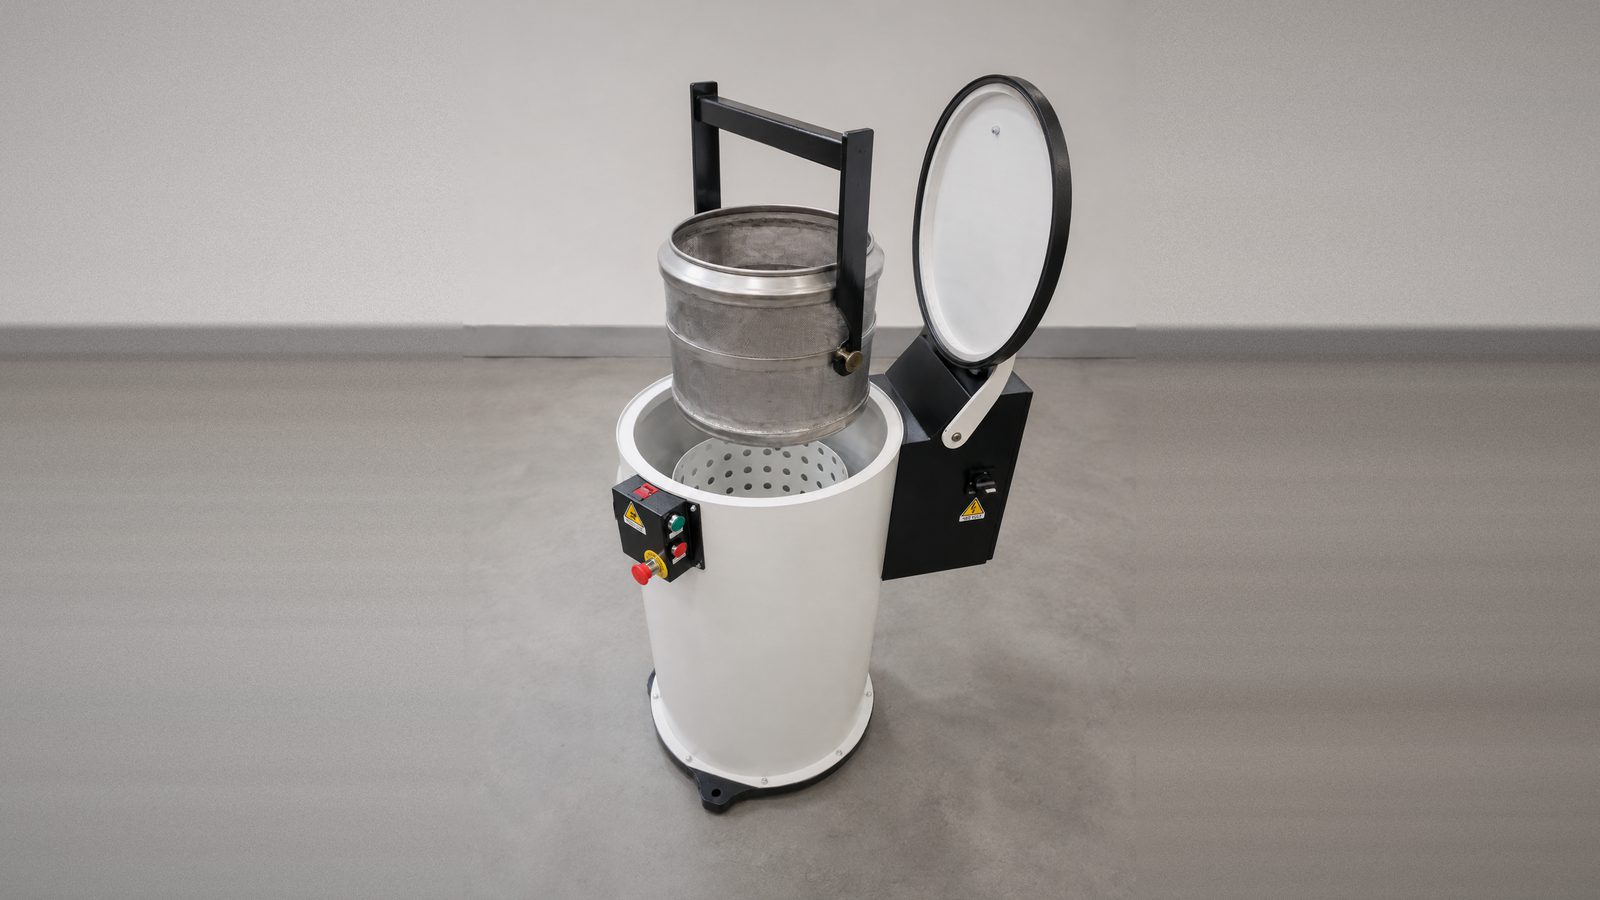
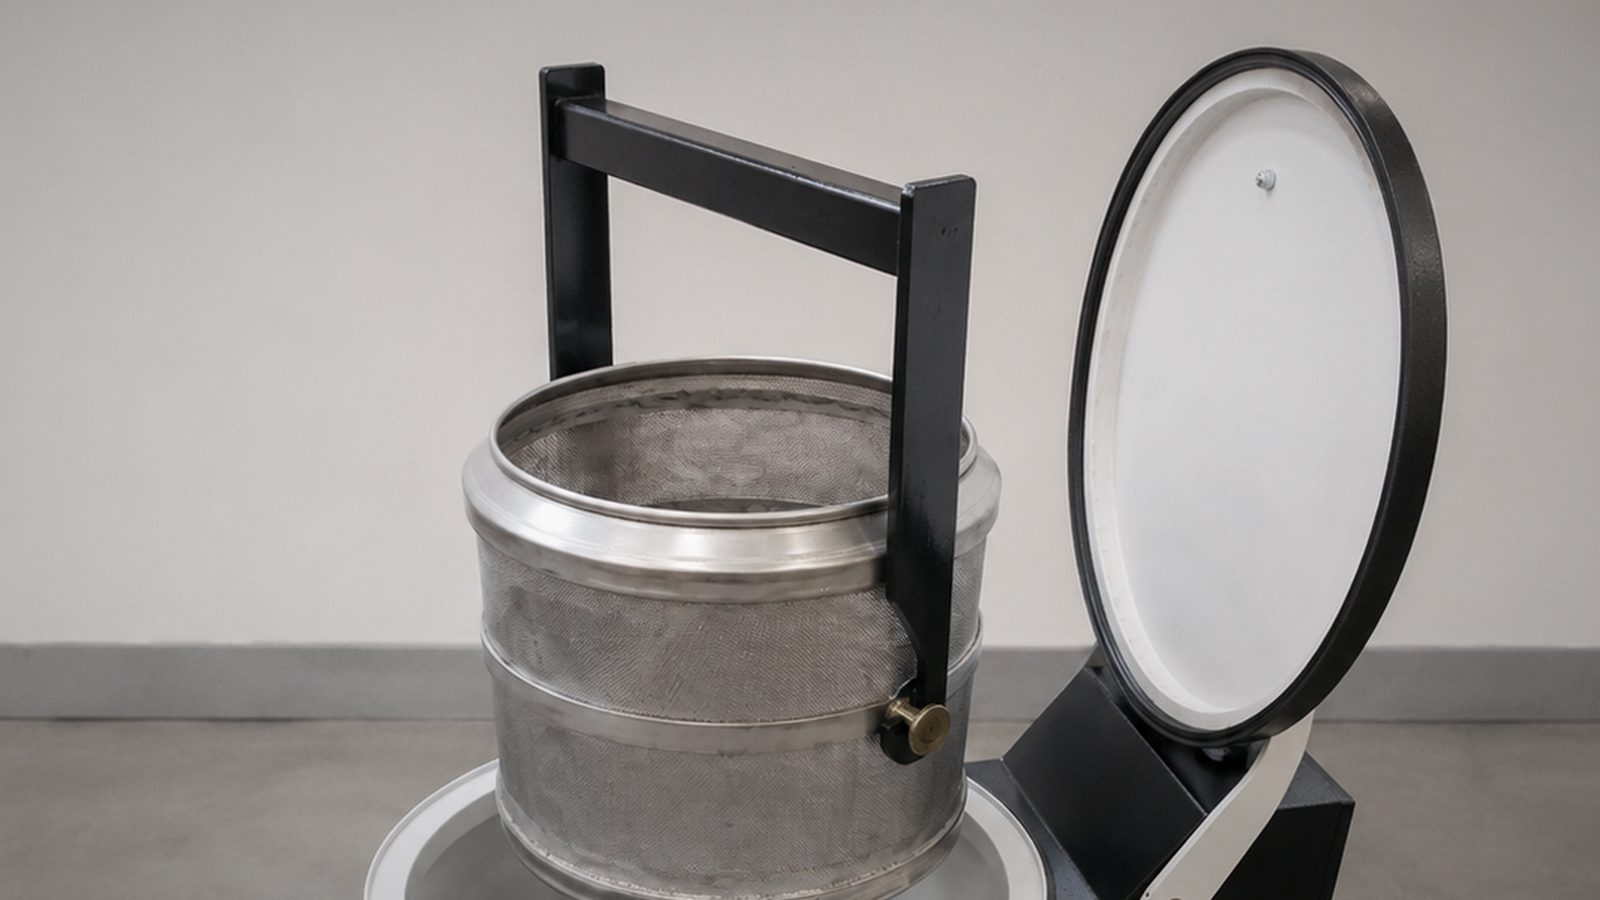
Le FCV diventano ritagli: niente piu' fondo inventato
L'alone attorno alla macchina non si toglieva ritoccando: allargare quegli
scatti al 16:9 vuol dire inventare il 58% del fotogramma partendo da un margine
di fondo largo 84 px, perche' la macchina occupa l'85-90% dell'altezza e quasi
tutta la larghezza. Copiare la grana e sfumare l'attacco non bastava — quello
che manca ai lati non e' il rumore, e' la struttura: macchie del pavimento,
variazione di luce. Resta una fascia liscia, e si vede.

Quindi il fondo aggiunto sparisce del tutto. Le tre immagini sono ritagli presi
dentro lo scatto, inquadrati in alto sulla macchina: coperchio, maniglie e
quadro, e nel terzo il cesto estratto col coperchio aperto. La macchina esce dal
fotogramma come in un primo piano, che e' una scelta e non un rattoppo, e tutto
quello che si vede e' fotografia vera.

Rifatte anche la copertina — il quadrato piu' grande che sta dentro allo scatto
— e la scheda "centrifugazione" di applicazioni.

diff --git a/prodotti/centrifughe-asciugatrici-serie-fcv.html b/prodotti/centrifughe-asciugatrici-serie-fcv.html
@@ -8,7 +8,7 @@
 <meta name="description" content="Cesto verticale compatto, vibrazioni ammortizzate">
 <link rel="icon" href="../assets/img/favicon-32.png" sizes="32x32">
 <link rel="apple-touch-icon" href="../assets/img/favicon-180.png">
-<link rel="stylesheet" href="../assets/site.css?v=20260828p">
+<link rel="stylesheet" href="../assets/site.css?v=20260828q">
 </head>
 <body>
 <nav class="menu">
@@ -64,7 +64,7 @@
        immagini basta agire su queste righe. -->
   <div class="reveal carosello" data-carosello="2000">
     <img class="attiva" alt="centrifuga disoleatrice Fase serie FCV in blu, coperchio con maniglie e quadro a bordo macchina" src="../assets/img/centrifughe/fcv-01.jpg">
-    <img loading="lazy" alt="centrifuga disoleatrice Fase serie FCV in bianco, vista di tre quarti" src="../assets/img/centrifughe/fcv-02.jpg">
+    <img loading="lazy" alt="coperchio con maniglie e quadro di una centrifuga disoleatrice Fase serie FCV in bianco" src="../assets/img/centrifughe/fcv-02.jpg">
     <img loading="lazy" alt="centrifuga disoleatrice Fase serie FCV col coperchio aperto e il cesto estratto" src="../assets/img/centrifughe/fcv-03.jpg">
   </div>
 </section>
@@ -170,7 +170,7 @@
     </div>
   </div>
 </footer>
-<script src="../assets/i18n.js?v=20260828p"></script>
-<script src="../assets/site.js?v=20260828p"></script>
+<script src="../assets/i18n.js?v=20260828q"></script>
+<script src="../assets/site.js?v=20260828q"></script>
 </body>
 </html>

diff --git a/assets/i18n.js b/assets/i18n.js
@@ -503,7 +503,7 @@ var EN = {
 "fotografia del nastro trasportatore non ancora disponibile":"photograph of the belt conveyor not yet available",
 "fotografia delle centrifughe non ancora disponibile":"photograph of the centrifuges not yet available",
 "centrifuga disoleatrice Fase serie FCV in blu, coperchio con maniglie e quadro a bordo macchina":"Fase FCV series oil-removal centrifuge in blue, lid with handles and on-board control panel",
-"centrifuga disoleatrice Fase serie FCV in bianco, vista di tre quarti":"Fase FCV series oil-removal centrifuge in white, seen three-quarters on",
+"coperchio con maniglie e quadro di una centrifuga disoleatrice Fase serie FCV in bianco":"lid with handles and control panel of a Fase FCV series oil-removal centrifuge in white",
 "centrifuga disoleatrice Fase serie FCV col coperchio aperto e il cesto estratto":"Fase FCV series oil-removal centrifuge with the lid open and the basket lifted out",
 "centrifuga disoleatrice Fase serie FD, fusto bianco e motore sul basamento che porta il marchio":"Fase FD series oil-removal centrifuge, white drum and motor on the base carrying the brand mark",
 "timbro \u00abpatented\u00bb: l\u2019espulsione del trituratore TR1 \u00e8 coperta da brevetto":"\u201cpatented\u201d stamp: the ejection system of the TR1 shredder is covered by a patent",

diff --git a/news/test-gratuiti-di-triturazione.html b/news/test-gratuiti-di-triturazione.html
@@ -8,7 +8,7 @@
 <meta name="description" content="I trituratori frantumano il truciolo e semplificano centrifugazione e stoccaggio. Mettiamo a disposizione una prova gratuita sullo sfrido del cliente, su appuntamento.">
 <link rel="icon" href="../assets/img/favicon-32.png" sizes="32x32">
 <link rel="apple-touch-icon" href="../assets/img/favicon-180.png">
-<link rel="stylesheet" href="../assets/site.css?v=20260828p">
+<link rel="stylesheet" href="../assets/site.css?v=20260828q">
 </head>
 <body>
 <nav class="menu">
@@ -149,7 +149,7 @@
     </div>
   </div>
 </footer>
-<script src="../assets/i18n.js?v=20260828p"></script>
-<script src="../assets/site.js?v=20260828p"></script>
+<script src="../assets/i18n.js?v=20260828q"></script>
+<script src="../assets/site.js?v=20260828q"></script>
 </body>
 </html>

diff --git a/applicazioni.html b/applicazioni.html
@@ -8,7 +8,7 @@
 <meta name="description" content="Il truciolo esce dalla macchina utensile carico di lubrorefrigerante, e quanto ne trattiene dipende dalla forma. L’impianto si sceglie dal materiale, non dal listino.">
 <link rel="icon" href="assets/img/favicon-32.png" sizes="32x32">
 <link rel="apple-touch-icon" href="assets/img/favicon-180.png">
-<link rel="stylesheet" href="assets/site.css?v=20260828p">
+<link rel="stylesheet" href="assets/site.css?v=20260828q">
 </head>
 <body>
 <nav class="menu">
@@ -143,7 +143,7 @@
     </div>
   </div>
 </footer>
-<script src="assets/i18n.js?v=20260828p"></script>
-<script src="assets/site.js?v=20260828p"></script>
+<script src="assets/i18n.js?v=20260828q"></script>
+<script src="assets/site.js?v=20260828q"></script>
 </body>
 </html>

diff --git a/prodotti/kombi.html b/prodotti/kombi.html
@@ -8,7 +8,7 @@
 <meta name="description" content="Impianto automatico di disoleatura del truciolo corto, su base pallettizzata. Fino a 400 kg/h, trituratore e vasca dragante a richiesta.">
 <link rel="icon" href="../assets/img/favicon-32.png" sizes="32x32">
 <link rel="apple-touch-icon" href="../assets/img/favicon-180.png">
-<link rel="stylesheet" href="../assets/site.css?v=20260828p">
+<link rel="stylesheet" href="../assets/site.css?v=20260828q">
 </head>
 <body>
 <nav class="menu">
@@ -176,7 +176,7 @@
     </div>
   </div>
 </footer>
-<script src="../assets/i18n.js?v=20260828p"></script>
-<script src="../assets/site.js?v=20260828p"></script>
+<script src="../assets/i18n.js?v=20260828q"></script>
+<script src="../assets/site.js?v=20260828q"></script>
 </body>
 </html>

diff --git a/settori.html b/settori.html
@@ -8,7 +8,7 @@
 <meta name="description" content="Cambia il pezzo, cambia il fluido, cambia lo spazio. Non cambia dove interveniamo: a valle della lavorazione, prima che lo sfrido diventi un costo.">
 <link rel="icon" href="assets/img/favicon-32.png" sizes="32x32">
 <link rel="apple-touch-icon" href="assets/img/favicon-180.png">
-<link rel="stylesheet" href="assets/site.css?v=20260828p">
+<link rel="stylesheet" href="assets/site.css?v=20260828q">
 </head>
 <body>
 <nav class="menu">
@@ -129,7 +129,7 @@
     </div>
   </div>
 </footer>
-<script src="assets/i18n.js?v=20260828p"></script>
-<script src="assets/site.js?v=20260828p"></script>
+<script src="assets/i18n.js?v=20260828q"></script>
+<script src="assets/site.js?v=20260828q"></script>
 </body>
 </html>

diff --git a/news/mecspe-2026.html b/news/mecspe-2026.html
@@ -8,7 +8,7 @@
 <meta name="description" content="Saremo a MECSPE, la fiera dedicata alle innovazioni per l’industria manifatturiera. Padiglione 14, stand F32.">
 <link rel="icon" href="../assets/img/favicon-32.png" sizes="32x32">
 <link rel="apple-touch-icon" href="../assets/img/favicon-180.png">
-<link rel="stylesheet" href="../assets/site.css?v=20260828p">
+<link rel="stylesheet" href="../assets/site.css?v=20260828q">
 </head>
 <body>
 <nav class="menu">
@@ -149,7 +149,7 @@
     </div>
   </div>
 </footer>
-<script src="../assets/i18n.js?v=20260828p"></script>
-<script src="../assets/site.js?v=20260828p"></script>
+<script src="../assets/i18n.js?v=20260828q"></script>
+<script src="../assets/site.js?v=20260828q"></script>
 </body>
 </html>

diff --git a/index.html b/index.html
@@ -8,7 +8,7 @@
 <meta name="description" content="Fase progetta e costruisce centrifughe, impianti di trattamento e trituratori per lo sfrido metallico. Umidità residua sotto il 2%.">
 <link rel="icon" href="assets/img/favicon-32.png" sizes="32x32">
 <link rel="apple-touch-icon" href="assets/img/favicon-180.png">
-<link rel="stylesheet" href="assets/site.css?v=20260828p">
+<link rel="stylesheet" href="assets/site.css?v=20260828q">
 </head>
 <body>
 <nav class="menu">
@@ -341,7 +341,7 @@
     </div>
   </div>
 </footer>
-<script src="assets/i18n.js?v=20260828p"></script>
-<script src="assets/site.js?v=20260828p"></script>
+<script src="assets/i18n.js?v=20260828q"></script>
+<script src="assets/site.js?v=20260828q"></script>
 </body>
 </html>

diff --git a/news/fornitore-offresi-2025.html b/news/fornitore-offresi-2025.html
@@ -8,7 +8,7 @@
 <meta name="description" content="Salone internazionale della subfornitura meccanica, a Erba dal 13 al 15 febbraio. Padiglione B, stand 281.">
 <link rel="icon" href="../assets/img/favicon-32.png" sizes="32x32">
 <link rel="apple-touch-icon" href="../assets/img/favicon-180.png">
-<link rel="stylesheet" href="../assets/site.css?v=20260828p">
+<link rel="stylesheet" href="../assets/site.css?v=20260828q">
 </head>
 <body>
 <nav class="menu">
@@ -149,7 +149,7 @@
     </div>
   </div>
 </footer>
-<script src="../assets/i18n.js?v=20260828p"></script>
-<script src="../assets/site.js?v=20260828p"></script>
+<script src="../assets/i18n.js?v=20260828q"></script>
+<script src="../assets/site.js?v=20260828q"></script>
 </body>
 </html>

diff --git a/news/mecspe-2021.html b/news/mecspe-2021.html
@@ -8,7 +8,7 @@
 <meta name="description" content="Presenti con i sistemi di centrifugazione e triturazione del truciolo metallico. Padiglione 22, stand C86.">
 <link rel="icon" href="../assets/img/favicon-32.png" sizes="32x32">
 <link rel="apple-touch-icon" href="../assets/img/favicon-180.png">
-<link rel="stylesheet" href="../assets/site.css?v=20260828p">
+<link rel="stylesheet" href="../assets/site.css?v=20260828q">
 </head>
 <body>
 <nav class="menu">
@@ -149,7 +149,7 @@
     </div>
   </div>
 </footer>
-<script src="../assets/i18n.js?v=20260828p"></script>
-<script src="../assets/site.js?v=20260828p"></script>
+<script src="../assets/i18n.js?v=20260828q"></script>
+<script src="../assets/site.js?v=20260828q"></script>
 </body>
 </html>

diff --git a/news/mecspe-2024.html b/news/mecspe-2024.html
@@ -8,7 +8,7 @@
 <meta name="description" content="In mostra i sistemi di centrifugazione e triturazione del truciolo metallico. Padiglione 19, stand A10.">
 <link rel="icon" href="../assets/img/favicon-32.png" sizes="32x32">
 <link rel="apple-touch-icon" href="../assets/img/favicon-180.png">
-<link rel="stylesheet" href="../assets/site.css?v=20260828p">
+<link rel="stylesheet" href="../assets/site.css?v=20260828q">
 </head>
 <body>
 <nav class="menu">
@@ -149,7 +149,7 @@
     </div>
   </div>
 </footer>
-<script src="../assets/i18n.js?v=20260828p"></script>
-<script src="../assets/site.js?v=20260828p"></script>
+<script src="../assets/i18n.js?v=20260828q"></script>
+<script src="../assets/site.js?v=20260828q"></script>
 </body>
 </html>

diff --git a/accessori.html b/accessori.html
@@ -8,7 +8,7 @@
 <meta name="description" content="Nastri trasportatori, ribalta cassoni e opzioni di macchina: quello che collega le fasi e toglie le movimentazioni a mano.">
 <link rel="icon" href="assets/img/favicon-32.png" sizes="32x32">
 <link rel="apple-touch-icon" href="assets/img/favicon-180.png">
-<link rel="stylesheet" href="assets/site.css?v=20260828p">
+<link rel="stylesheet" href="assets/site.css?v=20260828q">
 </head>
 <body>
 <nav class="menu">
@@ -185,7 +185,7 @@
     </div>
   </div>
 </footer>
-<script src="assets/i18n.js?v=20260828p"></script>
-<script src="assets/site.js?v=20260828p"></script>
+<script src="assets/i18n.js?v=20260828q"></script>
+<script src="assets/site.js?v=20260828q"></script>
 </body>
 </html>
